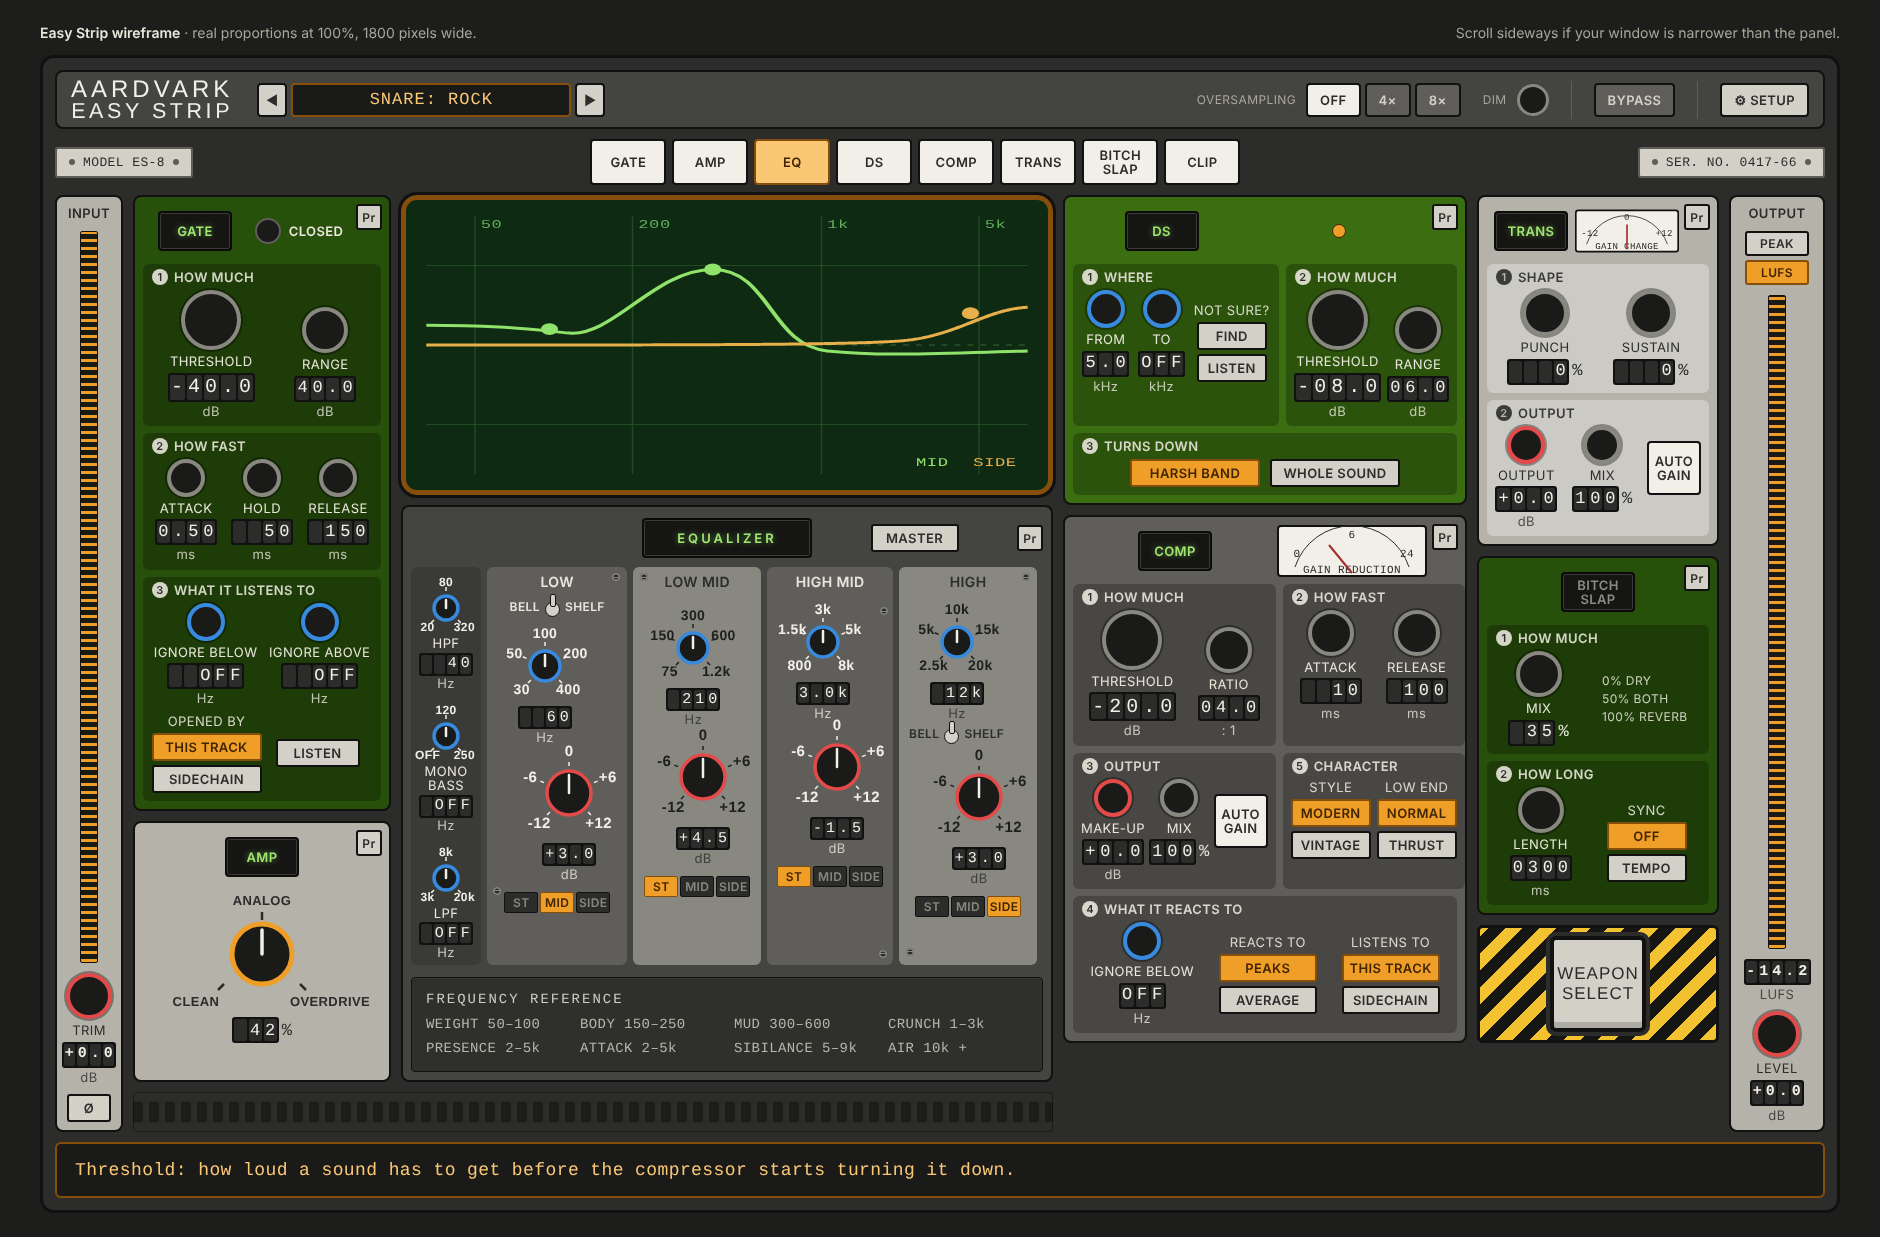
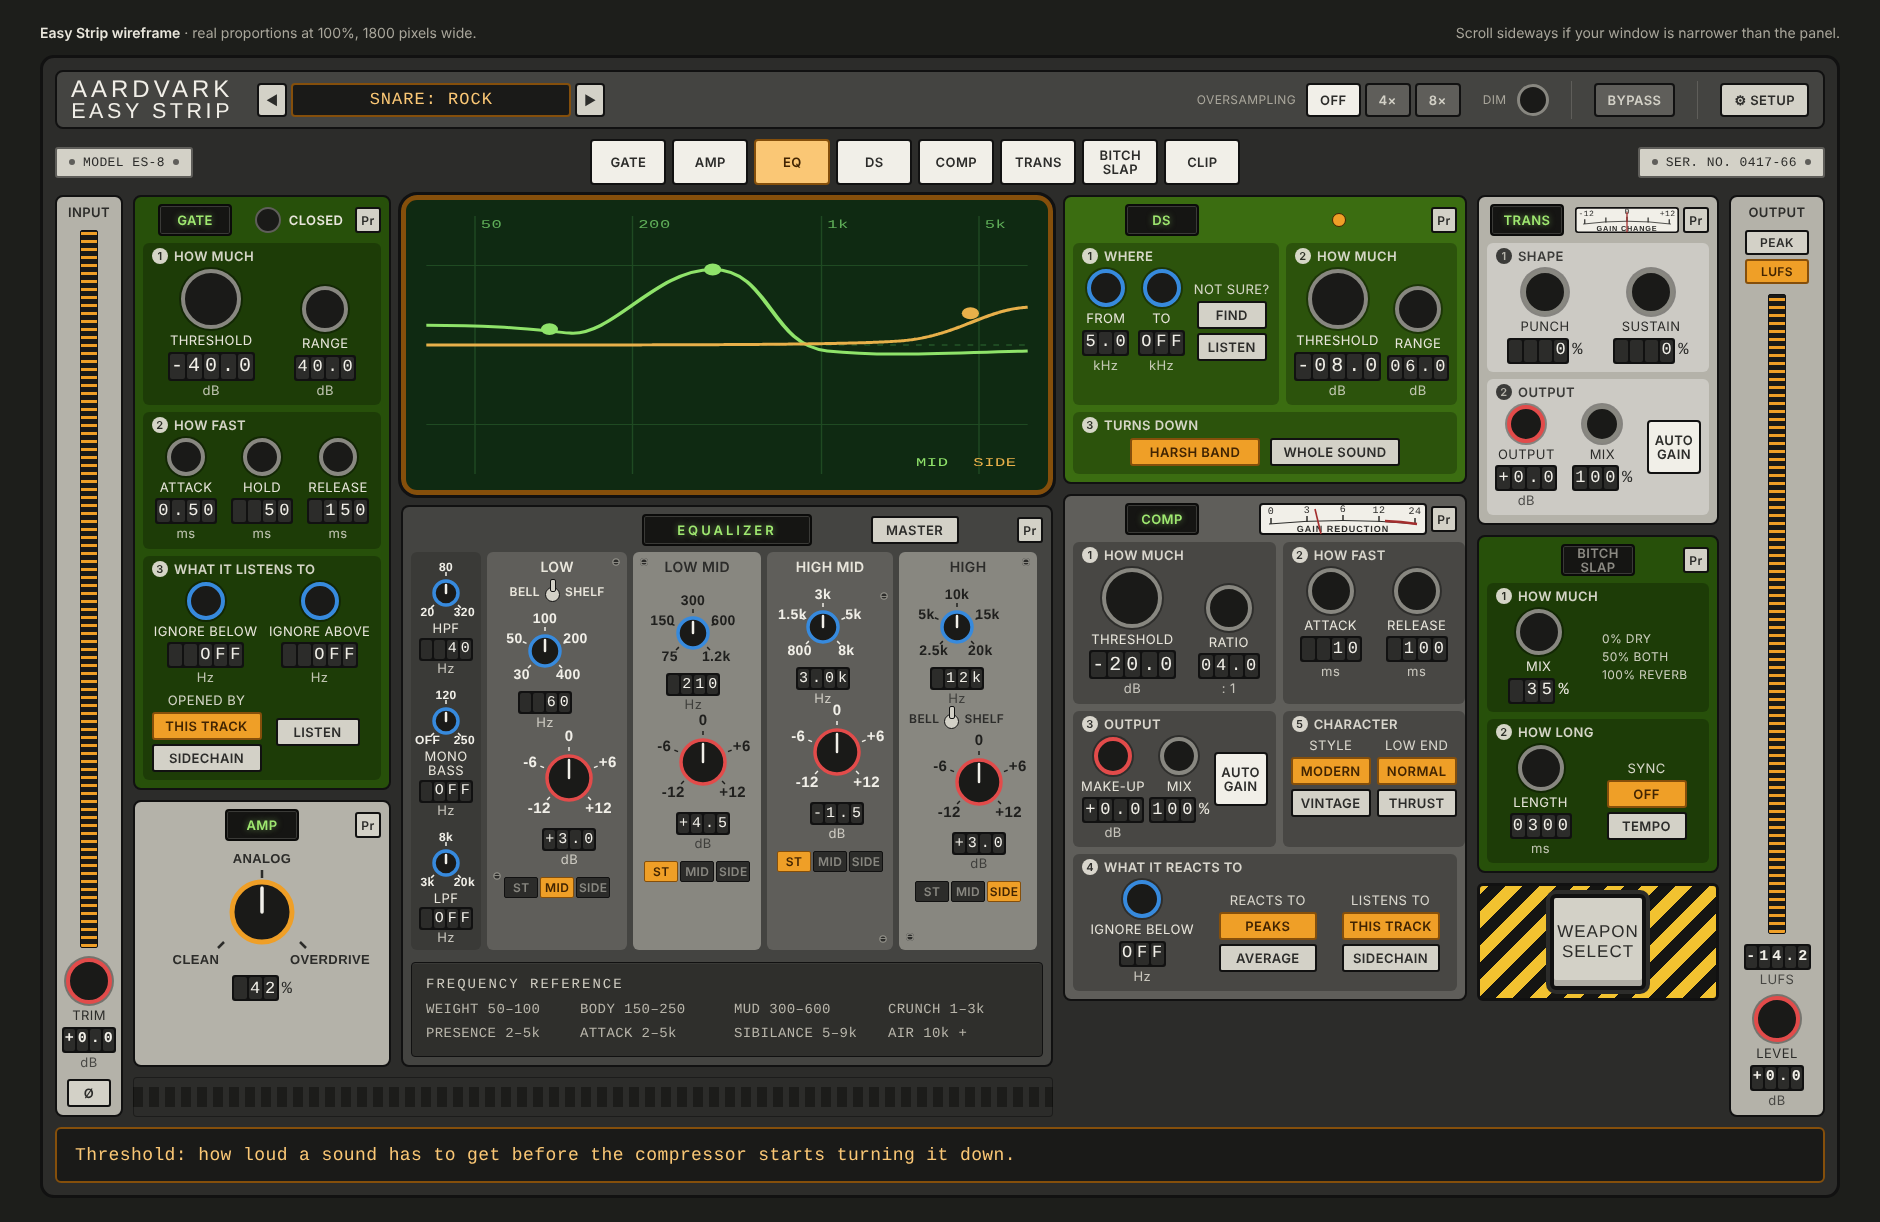
DevTools: compact top rows - on/off level with Pr, edgewise meters [skip ci]
Claude-Session: https://claude.ai/code/session_01KRn7UbAFWVf9LHLqhN9U6j

diff --git a/DevTools/Look/Strip/strip_wireframe_full_size.html b/DevTools/Look/Strip/strip_wireframe_full_size.html
@@ -41,14 +41,14 @@ body{background:var(--page);color:var(--ink);font-family:var(--label);margin:0;p
 .main{grid-template-rows:auto 1fr;display:grid;grid-template-columns:68px 258px 652px 404px 242px 96px;gap:10px;align-items:stretch}
 .col{display:flex;flex-direction:column;gap:10px}
 .col>.sl:last-child{flex:1}
-.sl{position:relative;border:2px solid #111;border-radius:8px;padding:8px;display:flex;flex-direction:column;gap:7px}
+.sl{position:relative;border:2px solid #111;border-radius:8px;padding:7px 8px 8px;display:flex;flex-direction:column;gap:7px}
 .c-olive{background:var(--olive)}.c-olive2{background:var(--olive2)}.c-gun{background:var(--gun)}.c-gun2{background:var(--gun2)}.c-sand{background:var(--sand);color:#2c2c2a}
-.tp{display:grid;grid-template-columns:1fr 1fr;align-items:center;min-height:52px;padding-right:30px}
-.tp.wide{grid-template-columns:1fr auto}
+.tp{display:grid;grid-template-columns:1fr 1fr;align-items:center;height:32px;padding-right:30px}
+.tp.wide{grid-template-columns:1fr auto;column-gap:8px}
 .tp.solo{grid-template-columns:1fr;padding-left:30px}
-.pb{justify-self:center;min-width:74px;height:40px;padding:0 8px;box-sizing:border-box;display:flex;flex-direction:column;align-items:center;justify-content:center;line-height:1.1;background:#151513;color:#9fe870;text-shadow:0 0 6px rgba(159,232,112,.55);border:2px solid #0b0b0a;box-shadow:inset 0 0 0 1px #3a3a37;border-radius:4px;font-weight:600}
+.pb{justify-self:center;min-width:74px;height:32px;padding:0 8px;box-sizing:border-box;display:flex;flex-direction:column;align-items:center;justify-content:center;line-height:1.1;background:#151513;color:#9fe870;text-shadow:0 0 6px rgba(159,232,112,.55);border:2px solid #0b0b0a;box-shadow:inset 0 0 0 1px #3a3a37;border-radius:4px;font-weight:600}
 .pb.off{color:#8c8a83;text-shadow:none}
-.pr{position:absolute;top:7px;right:7px;width:26px;height:26px;box-sizing:border-box;display:flex;align-items:center;justify-content:center;background:var(--face);color:#2c2c2a;border:2px solid #111;border-radius:3px;font-weight:600;font-size:12px}
+.pr{position:absolute;top:10px;right:8px;width:26px;height:26px;box-sizing:border-box;display:flex;align-items:center;justify-content:center;background:var(--face);color:#2c2c2a;border:2px solid #111;border-radius:3px;font-weight:600;font-size:12px}
 .sec{position:relative;border-radius:6px;padding:26px 8px 8px;background:rgba(0,0,0,.24)}
 .c-sand .sec{background:rgba(255,255,255,.32)}
 .hd{position:absolute;top:5px;left:9px;font-weight:600;font-size:13px;display:flex;align-items:center;gap:6px;opacity:.9}
@@ -76,7 +76,7 @@ body{background:var(--page);color:var(--ink);font-family:var(--label);margin:0;p
 .lamp{display:flex;align-items:center;gap:8px;justify-self:center;font-weight:600}
 .lamp i{width:22px;height:22px;border-radius:50%;background:#1a1a18;border:2px solid var(--gun)}
 .act{width:12px;height:12px;border-radius:50%;background:var(--amber);border:1px solid #412402;justify-self:center}
-.meter{width:150px;height:52px;justify-self:center}
+.meter{height:32px;justify-self:center}
 .mt{width:16px;flex:1;min-height:200px;border:1px solid #111;background:repeating-linear-gradient(to top,var(--amber) 0 3px,#1a1a18 3px 8px);border-radius:2px}
 .io{align-items:center;gap:10px;align-self:stretch}
 .io b{font-weight:600}
@@ -96,7 +96,7 @@ body{background:var(--page);color:var(--ink);font-family:var(--label);margin:0;p
 .wbtn{position:absolute;top:8px;bottom:8px;left:50%;transform:translateX(-50%);box-sizing:border-box;background:#d3d1c7;border:4px solid #111;border-radius:6px;box-shadow:0 0 0 4px #2c2c2a,inset 0 -6px 0 rgba(0,0,0,.18);display:flex;flex-direction:column;align-items:center;justify-content:center;font-family:var(--display);color:#2c2c2a;font-size:17px;letter-spacing:1px;line-height:1.2}
 /* EQ module */
 .eq{gap:6px}
-.eqtop{display:grid;grid-template-columns:26px 1fr auto 1fr 26px;align-items:center;min-height:46px}
+.eqtop{display:grid;grid-template-columns:26px 1fr auto 1fr 26px;align-items:center;height:32px}
 .eqtop .pr{position:static}
 .eqgrid{display:grid;grid-template-columns:70px 1.1fr 1fr .96fr 1.08fr 0px;gap:6px}
 .eb{position:relative;border-radius:6px;padding:6px 2px 10px;display:flex;flex-direction:column;align-items:center;justify-content:flex-start}
@@ -175,7 +175,7 @@ body{background:var(--page);color:var(--ink);font-family:var(--label);margin:0;p
   <div class="col" style="grid-column:3;grid-row:1">
     <div class="screen"><svg viewBox="0 0 440 280" preserveAspectRatio="none" role="img" aria-label="EQ curve on the big screen"><g stroke="#1f4a22" stroke-width="1"><line x1="44" y1="10" x2="44" y2="270"/><line x1="154" y1="10" x2="154" y2="270"/><line x1="286" y1="10" x2="286" y2="270"/><line x1="396" y1="10" x2="396" y2="270"/><line x1="10" y1="60" x2="430" y2="60"/><line x1="10" y1="220" x2="430" y2="220"/></g><line x1="10" y1="140" x2="430" y2="140" stroke="#2f6a33" stroke-dasharray="4 5"/><path d="M10 120 C60 120 80 124 110 128 S170 64 210 64 S250 140 290 146 S370 148 430 146" fill="none" stroke="#8fe36a" stroke-width="3"/><path d="M10 140 C200 140 300 140 340 136 S400 104 430 102" fill="none" stroke="#e8b04a" stroke-width="3" stroke-dasharray="1 0"/><circle cx="210" cy="64" r="6" fill="#8fe36a"/><circle cx="96" cy="124" r="6" fill="#8fe36a"/><circle cx="390" cy="108" r="6" fill="#e8b04a"/><g font-family="IBM Plex Mono, monospace" font-size="12" font-weight="500"><text x="352" y="262" fill="#8fe36a">MID</text><text x="392" y="262" fill="#e8b04a">SIDE</text></g><g font-family="IBM Plex Mono, monospace" font-size="12" fill="#5fae58"><text x="48" y="22">50</text><text x="158" y="22">200</text><text x="290" y="22">1k</text><text x="400" y="22">5k</text></g></svg></div>
     <div class="sl c-gun2 eq">
-      <div class="eqtop"><span></span><span></span><div class="pb" style="width:170px;letter-spacing:3px">EQUALIZER</div><div class="bt" style="width:88px;justify-self:center">MASTER</div><div class="pr">Pr</div></div>
+      <div class="eqtop"><span></span><span></span><div class="pb" style="width:170px;height:32px;letter-spacing:3px">EQUALIZER</div><div class="bt" style="width:88px;justify-self:center">MASTER</div><div class="pr">Pr</div></div>
       <div class="eqgrid">
         <div class="es"><div class="kb"><svg class="knob" data-s="s" data-c="#378ADD" data-l="20,80,320" width="64" height="62"></svg>HPF<span class="cn">  40</span><span class="u">Hz</span></div><div class="kb"><svg class="knob" data-s="s" data-c="#378ADD" data-l="OFF,120,250" width="64" height="62"></svg>MONO<br>BASS<span class="cn"> OFF</span><span class="u">Hz</span></div><div class="kb"><svg class="knob" data-s="s" data-c="#378ADD" data-l="3k,8k,20k" width="64" height="62"></svg>LPF<span class="cn"> OFF</span><span class="u">Hz</span></div></div>
         <div class="eb dk"><span class="scr" style="top:6px;right:7px"></span><span class="scr" style="bottom:70px;left:6px"></span><span class="nm">LOW</span>
@@ -221,7 +221,7 @@ body{background:var(--page);color:var(--ink);font-family:var(--label);margin:0;p
     </div>
     <div class="sl c-gun">
       <div class="pr">Pr</div>
-      <div class="tp wide"><div class="pb">COMP</div><svg class="meter" viewBox="0 0 150 52" role="img" aria-label="Gain reduction meter"><rect x="1" y="1" width="148" height="50" rx="3" fill="#f1efe8" stroke="#111" stroke-width="2"/><path d="M18 42 A60 60 0 0 1 132 42" fill="none" stroke="#2c2c2a"/><g fill="#2c2c2a" font-family="IBM Plex Mono, monospace" font-size="11" text-anchor="middle"><text x="20" y="32">0</text><text x="75" y="13">6</text><text x="130" y="32">24</text><text x="75" y="48">GAIN REDUCTION</text></g><line x1="75" y1="48" x2="52" y2="20" stroke="#a32d2d" stroke-width="2"/></svg></div>
+      <div class="tp wide"><div class="pb">COMP</div><svg class="meter" style="width:168px" viewBox="0 0 168 32" role="img" aria-label="Gain reduction meter"><rect x="1" y="1" width="166" height="30" rx="3" fill="#f1efe8" stroke="#111" stroke-width="2"/><path d="M10 21 Q84 14 158 21" fill="none" stroke="#2c2c2a"/><g stroke="#2c2c2a" stroke-width="1.5"><line x1="12" y1="15" x2="12" y2="21"/><line x1="48" y1="13" x2="48" y2="19"/><line x1="84" y1="12" x2="84" y2="18"/><line x1="120" y1="13" x2="120" y2="19"/><line x1="156" y1="15" x2="156" y2="21"/></g><path d="M126 18 Q142 18.5 158 21" fill="none" stroke="#a32d2d" stroke-width="2.5"/><g fill="#2c2c2a" font-family="IBM Plex Mono, monospace" font-size="10" text-anchor="middle"><text x="12" y="11">0</text><text x="48" y="10">3</text><text x="84" y="9">6</text><text x="120" y="10">12</text><text x="156" y="11">24</text></g><text x="84" y="29" text-anchor="middle" font-family="IBM Plex Sans Condensed, sans-serif" font-size="9" font-weight="600" fill="#2c2c2a" letter-spacing="1">GAIN REDUCTION</text><line x1="62" y1="31" x2="56" y2="6" stroke="#a32d2d" stroke-width="1.6"/></svg></div>
       <div style="display:grid;grid-template-columns:1fr 1fr;gap:7px">
         <div class="sec"><div class="hd"><em><span>1</span></em>HOW MUCH</div><div class="rw"><div class="k L"><i></i>THRESHOLD<span class="cn">-20.0</span><span class="u">dB</span></div><div class="k M"><i></i>RATIO<span class="cn">04.0</span><span class="u">: 1</span></div></div></div>
         <div class="sec"><div class="hd"><em><span>2</span></em>HOW FAST</div><div class="rw"><div class="k M"><i></i>ATTACK<span class="cn">  10</span><span class="u">ms</span></div><div class="k M"><i></i>RELEASE<span class="cn"> 100</span><span class="u">ms</span></div></div></div>
@@ -236,7 +236,7 @@ body{background:var(--page);color:var(--ink);font-family:var(--label);margin:0;p
   <div class="col">
     <div class="sl c-sand">
       <div class="pr">Pr</div>
-      <div class="tp wide"><div class="pb">TRANS</div><svg class="meter" style="width:104px;height:44px" viewBox="0 0 126 52" role="img" aria-label="Gain change meter"><rect x="1" y="1" width="124" height="50" rx="3" fill="#f1efe8" stroke="#111" stroke-width="2"/><path d="M14 42 A52 52 0 0 1 112 42" fill="none" stroke="#2c2c2a"/><g fill="#2c2c2a" font-family="IBM Plex Mono, monospace" font-size="11" text-anchor="middle"><text x="18" y="32">-12</text><text x="63" y="13">0</text><text x="108" y="32">+12</text><text x="63" y="48">GAIN CHANGE</text></g><line x1="63" y1="48" x2="63" y2="18" stroke="#a32d2d" stroke-width="2"/></svg></div>
+      <div class="tp wide"><div class="pb">TRANS</div><svg class="meter" style="width:104px" viewBox="0 0 128 32" role="img" aria-label="Gain change meter"><rect x="1" y="1" width="126" height="30" rx="3" fill="#f1efe8" stroke="#111" stroke-width="2"/><path d="M10 21 Q64 14 118 21" fill="none" stroke="#2c2c2a"/><g stroke="#2c2c2a" stroke-width="1.5"><line x1="12" y1="15" x2="12" y2="21"/><line x1="38" y1="13" x2="38" y2="19"/><line x1="64" y1="12" x2="64" y2="18"/><line x1="90" y1="13" x2="90" y2="19"/><line x1="116" y1="15" x2="116" y2="21"/></g><g fill="#2c2c2a" font-family="IBM Plex Mono, monospace" font-size="10" text-anchor="middle"><text x="14" y="11">-12</text><text x="64" y="9">0</text><text x="114" y="11">+12</text></g><text x="64" y="29" text-anchor="middle" font-family="IBM Plex Sans Condensed, sans-serif" font-size="9" font-weight="600" fill="#2c2c2a" letter-spacing="1">GAIN CHANGE</text><line x1="64" y1="31" x2="64" y2="6" stroke="#a32d2d" stroke-width="1.6"/></svg></div>
       <div class="sec"><div class="hd"><em><span>1</span></em>SHAPE</div><div class="rw"><div class="k M"><i></i>PUNCH<span class="pc"><span class="cn">   0</span><em>%</em></span></div><div class="k M"><i></i>SUSTAIN<span class="pc"><span class="cn">   0</span><em>%</em></span></div></div></div>
       <div class="sec g3" style="grid-template-columns:1fr 1.3fr auto;column-gap:4px"><div class="hd"><em><span>2</span></em>OUTPUT</div><div class="k S r"><i></i>OUTPUT<span class="cn">+0.0</span><span class="u">dB</span></div><div class="k S"><i></i>MIX<span class="pc"><span class="cn">100</span><em>%</em></span><span class="u">&nbsp;</span></div><div class="stretch"><div class="sq"><span>AUTO</span><span>GAIN</span></div></div></div>
     </div>
